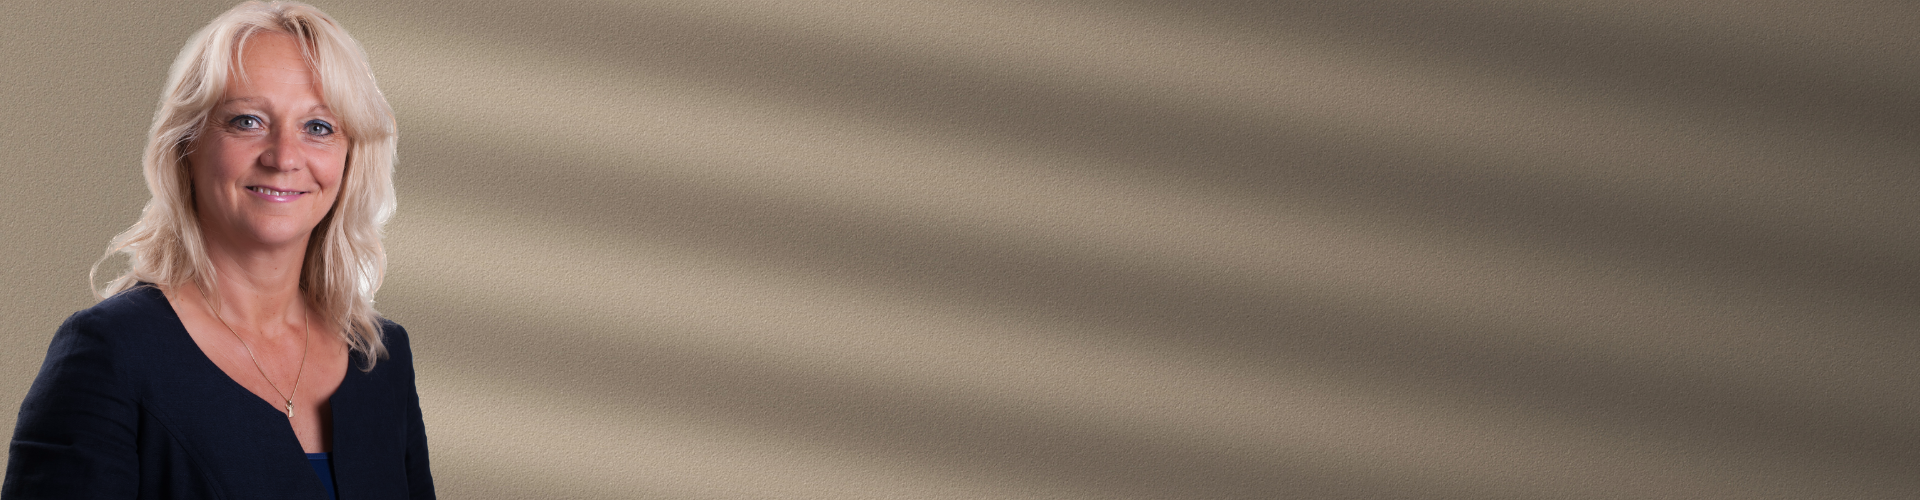
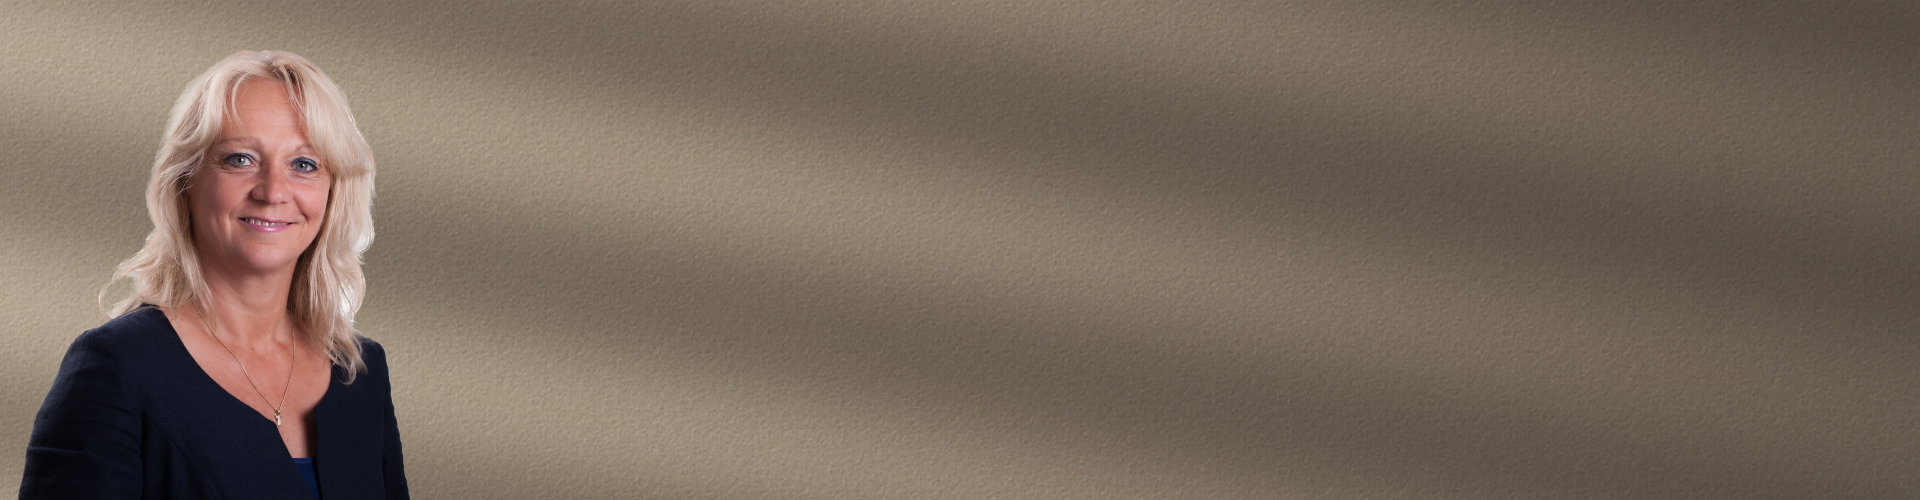
changes

diff --git a/main.css b/main.css
@@ -24,7 +24,7 @@ p{
   background-repeat: no-repeat;
   background-size: cover;
   width: 100%;
-  height: 30vw;
+  height: auto;
   min-height: 400px;
   justify-content: flex-end;
 }
